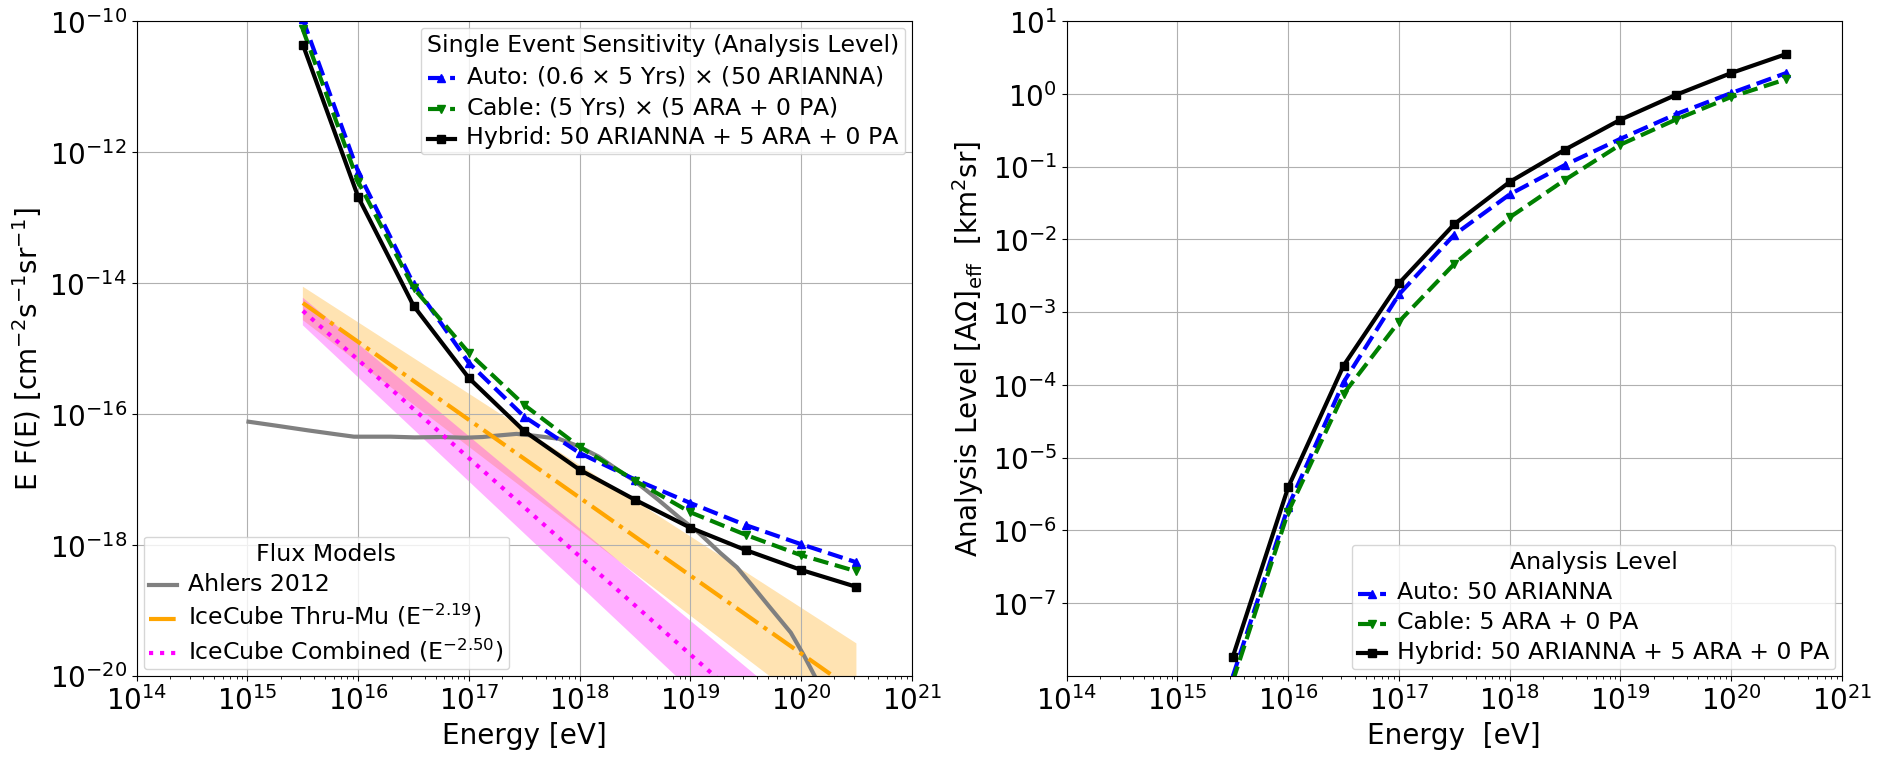
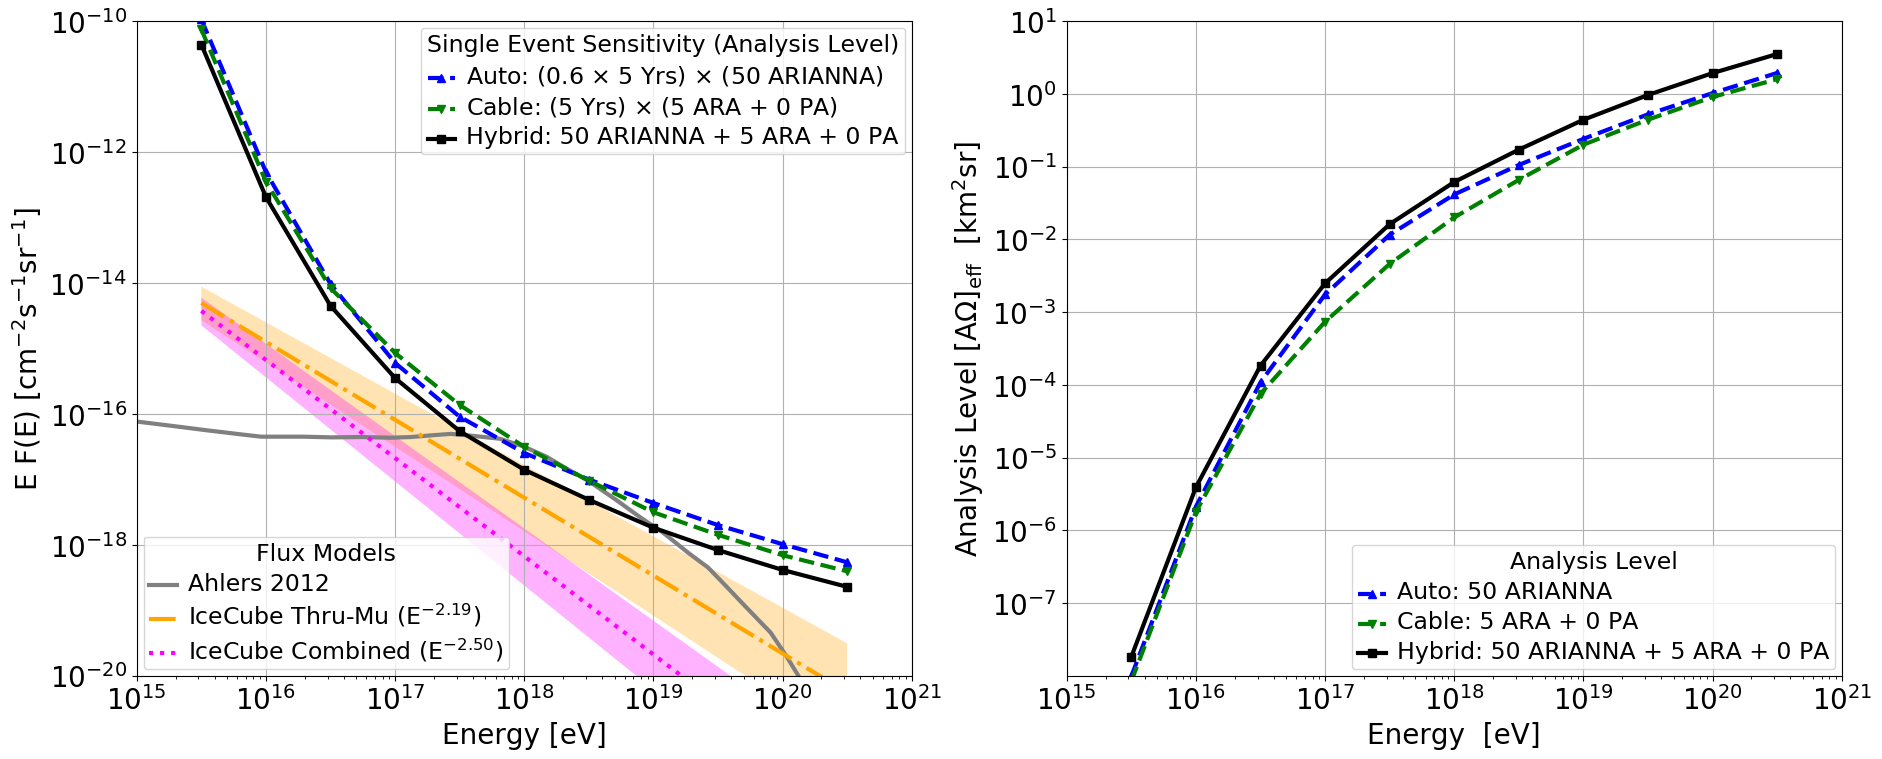
Change energy start range to PeV

diff --git a/comparison_plots/plot_hybrid.py b/comparison_plots/plot_hybrid.py
@@ -241,7 +241,7 @@ def main():
 
 def beautify_aeff(this_ax):
 	sizer=20
-	xlow = 1.e14 #the lower x limit
+	xlow = 1.e15 #the lower x limit
 	xup = 1.e21 #the uppper x limit
 	ylow = 1.e-8 #the lower x limit
 	yup = 1.e1 #the uppper x limit
@@ -262,7 +262,7 @@ def beautify_aeff(this_ax):
 #always pass the theory curves first
 def beautify_limit(this_ax, num_theory):
 	sizer=20
-	xlow =  1.e14 #the lower x limit
+	xlow =  1.e15 #the lower x limit
 	xup = 1e21 #the uppper x limit
 	ylow = 1e-20 #the lower y limit
 	yup = 1e-10 #the upper y limit
